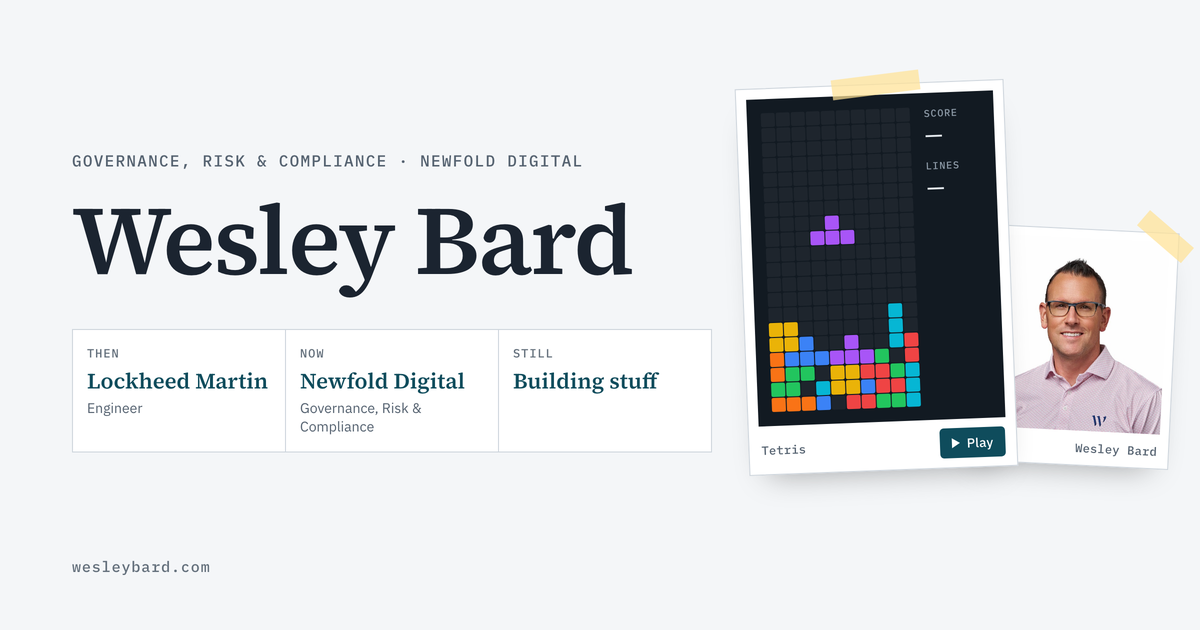
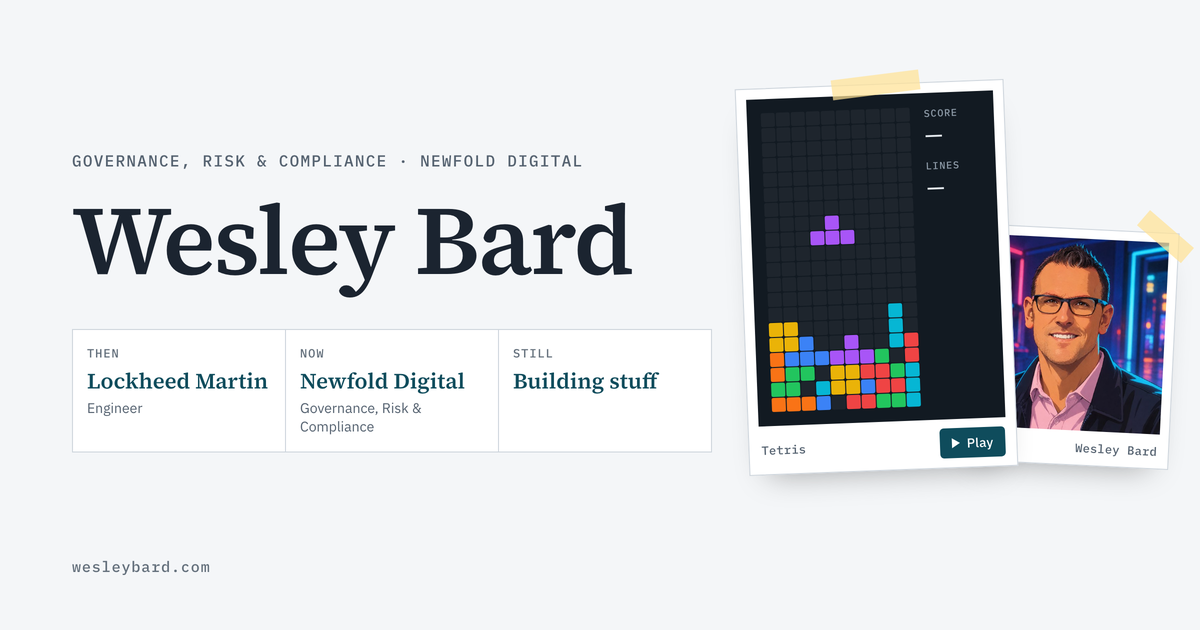
Replace the headshot with the arcade portrait
The hero's headshot print and the homepage link preview both draw
public/headshot-thumb.jpg, so the preview is redrawn with it and
OG_IMAGE moves to ?v=3 so LinkedIn fetches the new card.

Changed region(s): [[0.8325, 0.3619, 0.9867, 0.6937]]

diff --git a/app/layout.tsx b/app/layout.tsx
@@ -46,7 +46,7 @@ const mono = IBM_Plex_Mono({
 // sentences, in Wes's voice (4 Oct 2026). LinkedIn caches it; re-fetch with its Post Inspector after a change.
 // The homepage card's address. LinkedIn keeps an image by its address, so bump ?v= whenever
 // public/og-image.png is redrawn, or it goes on showing the old one (or a blank box).
-const OG_IMAGE = '/og-image.png?v=2';
+const OG_IMAGE = '/og-image.png?v=3';
 
 const DESCRIPTION =
   "I work in compliance, and before that I spent 12 years as an engineer. These days I'm all in on building with AI agents.";
